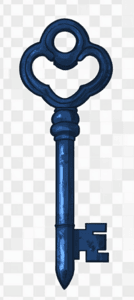
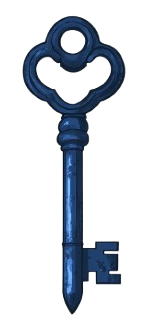
Replace key images, style key-question

Changed region(s): [[0.1194, 0.03, 0.8657, 0.99]]

diff --git a/assets/js/script.js b/assets/js/script.js
@@ -352,23 +352,16 @@ function showPuzzleGame() {
     $("#choices-container").hide();
     $(".story-heading").text(data.heading);
     $("#story-container").html(`
-        <div id="puzzleModal" class="modal">
-            <div class="modal-content">
                     <h3>Unlock The Treasure Box</h3>
                     <p>Drag each key to the symbol it matches. Once all keys are correctly placed, the treasure box will open, revealing its secrets.</p>
                 </div>
                 <p id="key-question"></p>
-                <div id="puzzle-keys"">
-                    <img src="assets/images/key-red.png" class="key-image" alt="Red old key">
-                    <img src="assets/images/key-blue.png" class="key-image" alt="Blue old key">
-                    <img src="assets/images/key-yellow.png" class="key-image" alt="Yellow old key">
-                </div>
-            </div>
-        </div>
     `)
+    $("#pictures-container").html(`<img src="assets/images/key-red.png" class="key-image" alt="Red old key">
+                    <img src="assets/images/key-blue.png" class="key-image" alt="Blue old key">
+                    <img src="assets/images/key-yellow.png" class="key-image" alt="Yellow old key">`)
     currentQuestion = "Which key matches the Sun symbol?";
     $("#key-question").text(currentQuestion);
-    $("#puzzleModal").fadeIn();
 };
 
 

diff --git a/assets/css/style.css b/assets/css/style.css
@@ -42,7 +42,7 @@ p {
 }
 
 h1, h2 {
-    padding: 1rem;
+    padding: 2rem;
 }
 
 /* Container styles*/
@@ -64,8 +64,7 @@ h1, h2 {
     margin-left: auto; 
     margin-right: auto;
     caret-color: transparent; 
-    margin-top: 5rem;
-    padding-top: 3rem;
+    padding-top: 4rem;
 }
 
 #pictures-container {
@@ -105,6 +104,11 @@ h1, h2 {
 
 .story-heading {
     padding: 3px;
+}
+
+#key-question {
+    font-weight: bold;
+    text-transform: uppercase;
 }
 
 /*Buttons style*/
@@ -150,6 +154,7 @@ h1, h2 {
     color: var(--primary-color);
 }
 
+/* Modal styling*/
 #modal-content {
     padding: 20px;
     max-width: 500px;
